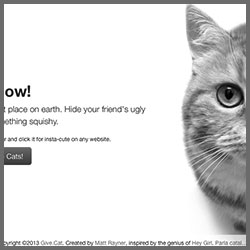
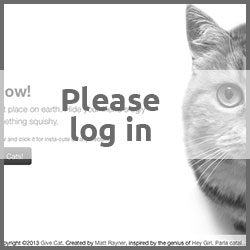
SQL Injection fix within login.php
Hopefully this will fix the possible injection?

Changed region(s): [[0.0, 0.28, 0.644, 0.644], [0.728, 0.28, 1.0, 0.644]]

diff --git a/admin/login.php b/admin/login.php
@@ -13,32 +13,44 @@ $databaseconnect = connectToDB("config.inc.php");
 $un = $_POST['un'];
 $pw = $_POST['pw'];
 
-$sql = "SELECT  `id`, `username` ,  `hash` FROM  `users` WHERE  `username` =  '{$un}'";
+if ($stmt = $databaseconnect->prepare("SELECT  `id`,`username`,`hash` FROM  `users` WHERE  `username`=?")) {
 
-//Qery the server
-$result = $databaseconnect->query($sql);
+    /* bind parameters for markers */
+    $stmt->bind_param("s", $un);
 
-//Count table row
-$count = $result->num_rows;
+    /* execute query */
+    $stmt->execute();
+    
+    /* bind result variables */
+	$stmt->bind_result($id, $username, $hash);
 
-//the match must mean that the correct un is on row one
-if($count>0){
-	$row = $result->fetch_assoc();
-	$hash = $row['hash'];
-
-	include_once("pbkdf2.php");
+/*  //Count table row
+	$count = $stmt->num_rows;
+	
+	//the match must mean that the correct un is on row one
+	if($count>0){
+	    /* fetch value */
+	    $stmt->fetch();
+	    
+	    include_once("pbkdf2.php");
 							
-	if( validate_password($pw, $hash) ){
-		$_SESSION['loggedin'] = true;
-		$_SESSION['username'] = $row['username'];
-		$_SESSION['userID'] = $row['id'];
-		$location = "home.php";
-	} else {
-		$location = "index.php?e=0";
-	}
-} else {
-	$location = "index.php?e=1";			
+		if( validate_password($pw, $hash) ){
+			$_SESSION['loggedin'] = true;
+			$_SESSION['username'] = $username;
+			$_SESSION['userID'] = $id;
+			$location = "home.php";
+		} else {
+			$location = "index.php?e=0";
+		}
+		
+	    /* close statement */
+	    $stmt->close();
+    /*}else{
+	    $location = "index.php?e=1";
+    }*/
+}else{
+	$location = "index.php?e=2";
 }
 
-//header("location: ".$location);
+header("location: ".$location);
 ?>

diff --git a/admin/home.php b/admin/home.php
@@ -9,6 +9,30 @@ include_once("helperFunctions.php");
 
 $databaseconnect = connectToDB("config.inc.php");
 
+if( isset($_POST['submit']) ) {
+	include('SimpleImage.php');
+	$image = new SimpleImage();
+	$image->load($_FILES['uploaded_image']['tmp_name']);
+	
+	/*$proportion = $image->getHeight()/$image->getWidth();
+	
+	if($proportion>1)$orientation="portrait";
+	else if($proportion===1)$orientation="square";
+	else if($proportion<1)$orientation="landscape";
+	
+	if($orientation == "portrait"){
+		$image->resizeToHeight(150);
+	}else{
+		$image->resizeToWidth(150);
+	}*/
+	
+	include_once("helperFunctions.php");
+	
+	$result = $databaseconnect->query("INSERT `orientation`, `url` INTO `cats` VALUES('".."', '".."')")
+
+}
+
+
 $result = $databaseconnect->query("SELECT * FROM `cats` ORDER BY  `cats`.`id` DESC");
 
 $num_rows = $result->num_rows;
@@ -101,7 +125,7 @@ if($num_rows <= 0){
 						<div class="form-group">
 							<label for="imageUpload">Cat file</label>
 							<p class="help-block">Upload a cat image (preferably with the largest side 374px)!</p>
-							<input type="file" id="imageUpload">
+							<input type="file" id="imageUpload" name="uploaded_image">
 						</div>
 						<button type="submit" class="btn btn-default">Upload</button>
 						
